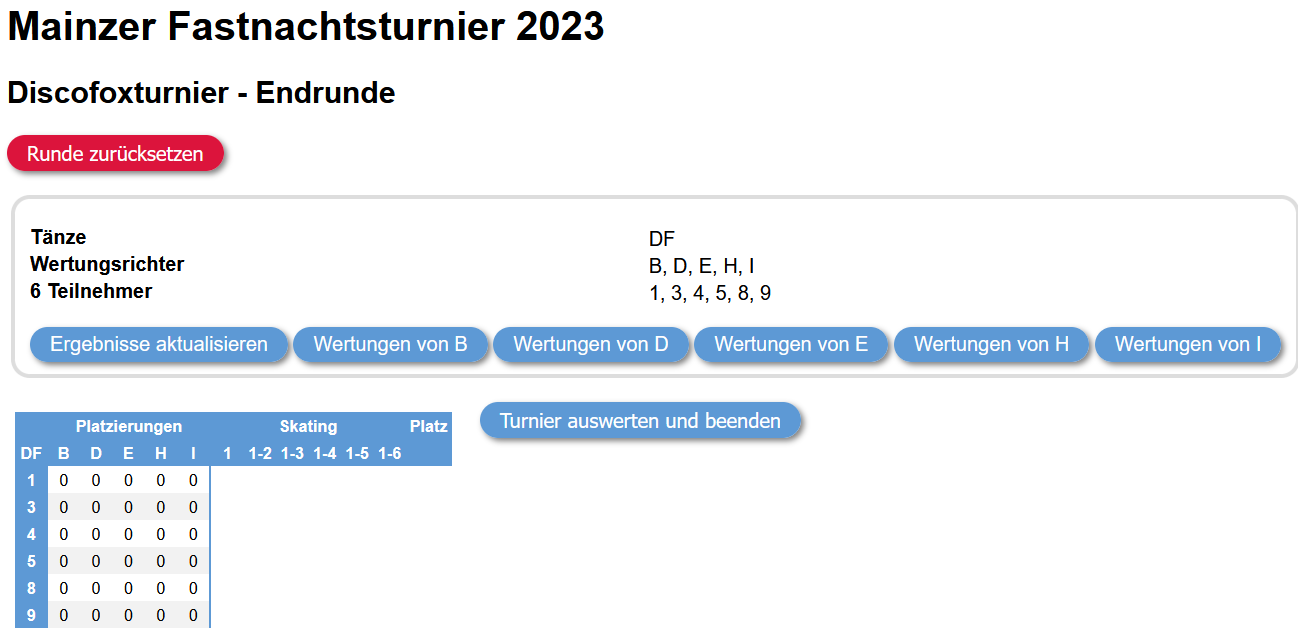
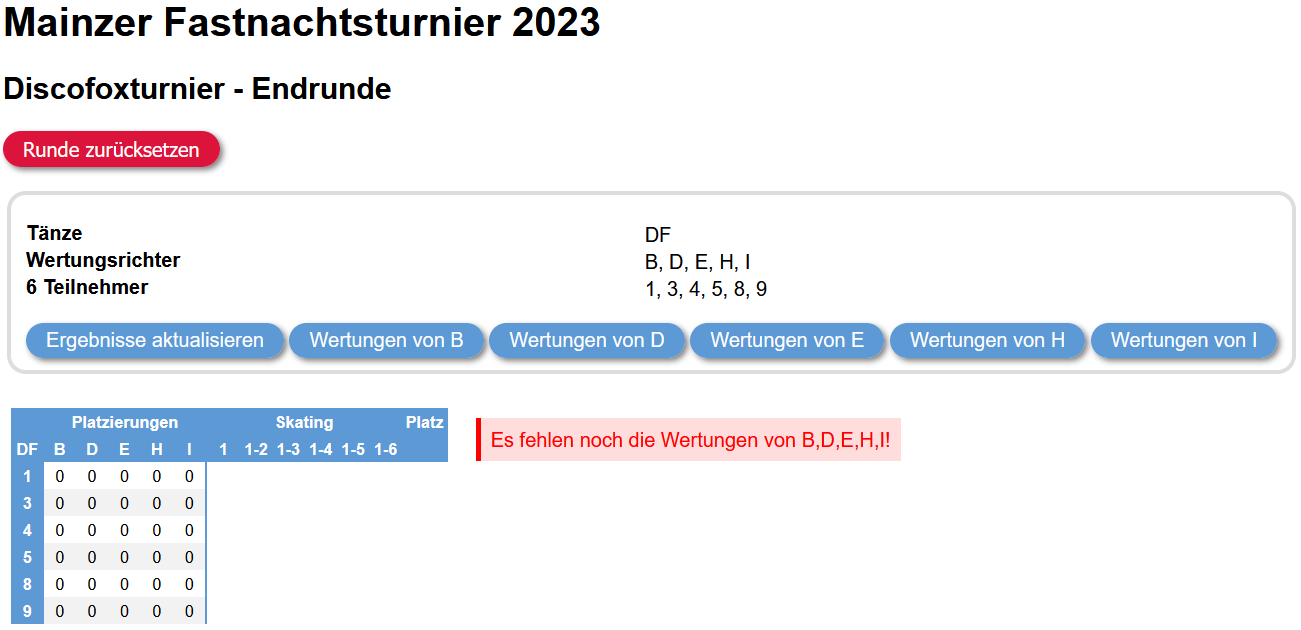
prevented early round analysis wo/ marks from all adjudicators

diff --git a/main/pydanceweb/static/pydanceweb/show_alert_or_to_next.js b/main/pydanceweb/static/pydanceweb/show_alert_or_to_next.js
@@ -1,0 +1,29 @@
+let adjudicators = document.getElementsByTagName("dd")[1].textContent.replace(/\s/g, "").split(",");
+
+let sums = {};
+let trs = document.getElementsByTagName("tbody")[0].getElementsByTagName("tr");
+for (let i=0; i<trs.length; ++i) {
+  let tds = trs[i].getElementsByTagName("td");
+  for (let j=0; j<adjudicators.length; ++j) {
+    let td = parseInt(tds[j].innerHTML);
+    if (adjudicators[j] in sums) {
+      sums[adjudicators[j]] = sums[adjudicators[j]] + td;
+    } else {
+      sums[adjudicators[j]] = td;
+    }
+  }
+}
+
+let missingAdjudicators = [];
+Object.entries(sums).forEach(function([key, value]) {
+  if (value == 0) {
+    missingAdjudicators.push(key);
+  }
+});
+
+if (missingAdjudicators.length > 0) {
+  document.getElementById("missing_adjudicators").innerHTML = missingAdjudicators;
+  document.getElementById("to_next").style.display = "None";
+} else {
+  document.getElementById("missing_adjudicators_alert").style.display = "None";
+}

diff --git a/main/pydanceweb/templates/pydanceweb/preliminary_round.html b/main/pydanceweb/templates/pydanceweb/preliminary_round.html
@@ -35,7 +35,8 @@
     {% include "pydanceweb/callback_mark_table.html" with section=section callback_table=callback_table %}
   </div>
   {% if dance_round.is_running %}
-  <form class="columns" method="post" action="{% url 'handle_round' section.id dance_round.id|add:'1' %}">
+  <div id="missing_adjudicators_alert" class="error columns">Es fehlen noch die Wertungen von <span id="missing_adjudicators"></span>!</div>
+  <form id="to_next" class="columns" method="post" action="{% url 'handle_round' section.id dance_round.id|add:'1' %}">
     {% csrf_token %}
     <label for="callback_count">Wieviele Paare sollen weiterkommen?</label>
     <select id="callback_count" name="callback_count">
@@ -56,6 +57,8 @@
       <button>nächste Runde vorbereiten</button>
     </div>
   </form>
+  {% load static %}
+  <script type="text/javascript" src="{% static 'pydanceweb/show_alert_or_to_next.js' %}"></script>
   {% endif %}
 </div>
 {% endif %}

diff --git a/main/pydanceweb/templates/pydanceweb/final_round.html b/main/pydanceweb/templates/pydanceweb/final_round.html
@@ -29,12 +29,15 @@
     </div>
   </div>
   {% if dance_round.is_running %}
-  <form class="columns" method="post" action="{% url 'finalize_section' section.id %}">
+  <div id="missing_adjudicators_alert" class="error columns">Es fehlen noch die Wertungen von <span id="missing_adjudicators"></span>!</div>
+  <form id="to_next" class="columns" method="post" action="{% url 'finalize_section' section.id %}">
     {% csrf_token %}
     <div style="margin-left: 1rem;">
       <button>Turnier auswerten und beenden</button>
     </div>
   </form>
+  {% load static %}
+  <script type="text/javascript" src="{% static 'pydanceweb/show_alert_or_to_next.js' %}"></script>
   {% endif %}
 </div>
 {% endblock %}

diff --git a/main/pydanceweb/static/pydanceweb/style.css b/main/pydanceweb/static/pydanceweb/style.css
@@ -235,6 +235,14 @@ input[type=number] {
   border-left: .25rem solid green;
 }
 
+.error {
+  color: red;
+  background-color: #ffdddd;
+  margin: 1rem;
+  padding: .5rem;
+  border-left: .25rem solid red;
+}
+
 .fgrid {
 	display:grid;
 	grid-template-columns:auto auto;

diff --git a/README.md b/README.md
@@ -82,11 +82,15 @@ The heat table will be saved to `data/sections/SECTION_ID/ROUND_NO/SECTION_ID_RO
 
 From the heats view you can access the round view via the top left button (and from there you can get back vice versa):
 
-![c.f. screenshots/desk_6_preliminary_round_view_2.png](screenshots/desk_6_preliminary_round_view_2.png)
+![c.f. screenshots/desk_6_preliminary_round_view_2.png](screenshots/desk_6_preliminary_round_view.png)
 
 In this view you can remove all round data and go back to the last round (e.g. if you accidentally moved on to the next round early or chose an unwanted callback option).
 
-You can also access the adjudicator views to edit their callback marks (e.g. in case they have problems or in order to print adjudicator sheets) and press the reload button to update the current result table with callbacks marks from adjudicators. Having done so, you can move on to the next round by selecting the number of competitors that should be called back. Please note that this will lead to a final round if noted that way. (A final is every non first round with 6 or less competitors or up to 8 if the 7th and or 8th are tied with the 6th.)
+You can also access the adjudicator views to edit their callback marks (e.g. in case they have problems or in order to print adjudicator sheets) and press the reload button to update the current result table with callbacks marks from adjudicators.
+
+![c.f. screenshots/desk_6_preliminary_round_view_2.png](screenshots/desk_6_preliminary_round_view_2.png)
+
+Having done so, you can move on to the next round by selecting the number of competitors that should be called back. Please note that this will lead to a final round if noted that way. (A final is every non first round with 6 or less competitors or up to 8 if the 7th and or 8th are tied with the 6th.)
 
 ### Handling Final Rounds and Finishing a Section
 
